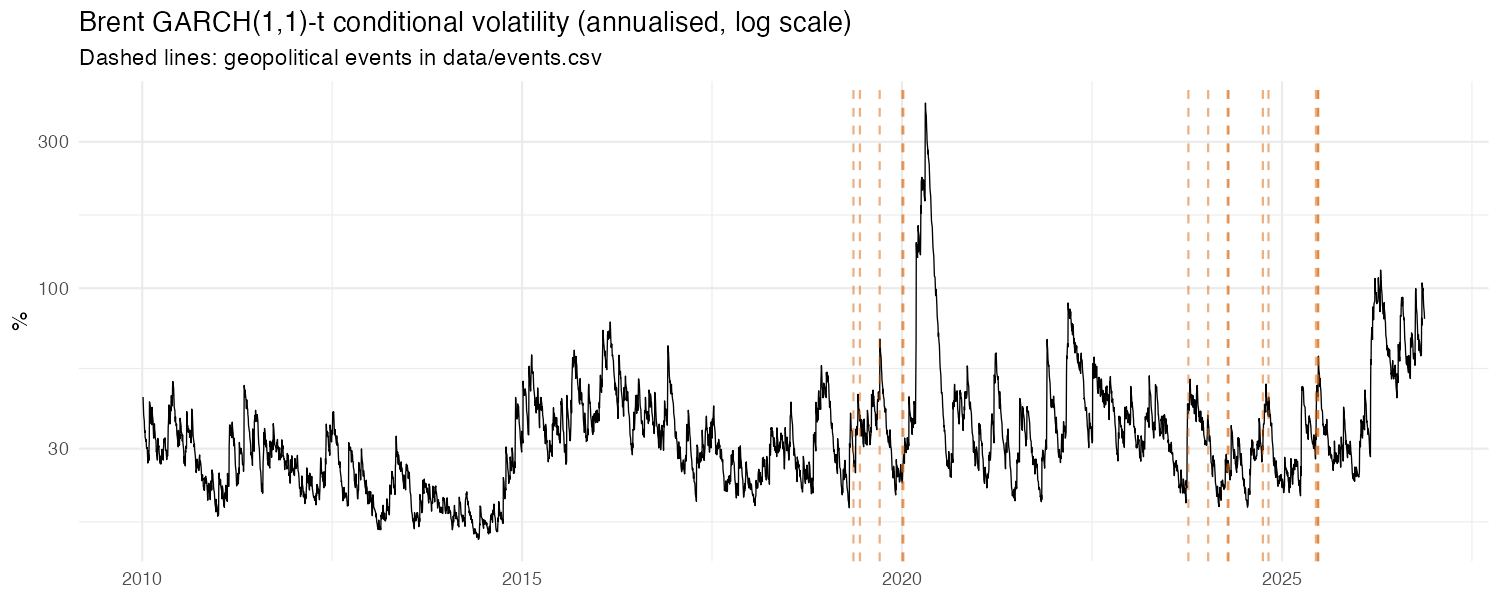
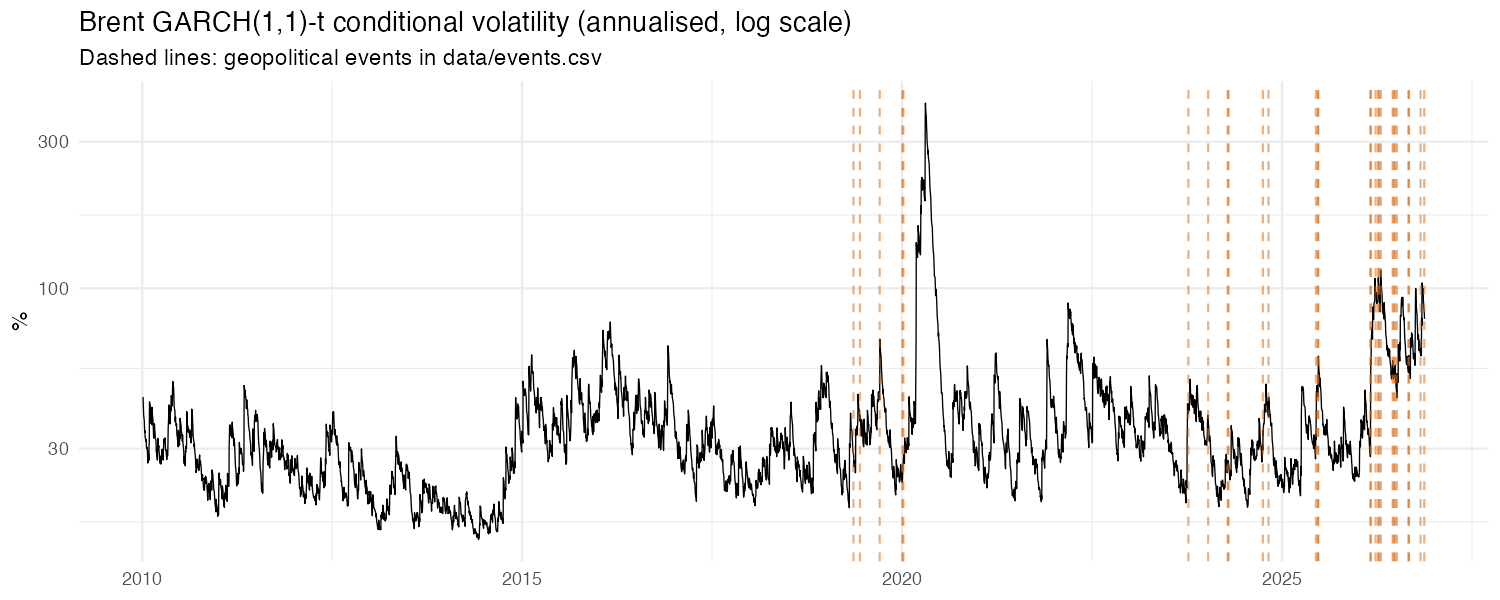
Add 2026 Iran war events; split tests by period and add within-war placebo

Changed region(s): [[0.8893, 0.15, 0.9507, 0.93]]

diff --git a/output/results.md b/output/results.md
@@ -54,18 +54,54 @@ Brent sample: 2010-01-05 to 2026-11-17 (4269 daily returns). Generated 2026-11-1
 |E12      |2025-06-13 |2025-06-13 |escalation    |FALSE             |   7.03|    3.48|     5.77|      2.15|    10.56|      1.94|      5.14|       1.58|
 |E13      |2025-06-22 |2025-06-23 |escalation    |FALSE             |  -5.74|   -2.05|   -13.00|     -3.06|   -14.43|     -1.94|    -15.07|      -2.92|
 |E14      |2025-06-24 |2025-06-24 |de-escalation |TRUE              |  -7.27|   -2.27|    -8.33|     -1.81|    -9.46|     -1.20|    -14.07|      -2.66|
+|E15      |2026-02-28 |2026-03-02 |escalation    |FALSE             |   7.97|    4.48|    15.50|      4.94|    27.98|      4.19|     15.03|       3.89|
+|E16      |2026-03-04 |2026-03-04 |escalation    |TRUE              |  -2.09|   -0.57|     6.18|      1.24|     8.84|      1.00|     13.71|       2.46|
+|E17      |2026-03-27 |2026-03-27 |escalation    |FALSE             |   6.88|    1.14|     7.22|      0.85|    19.79|      1.39|     11.04|       1.04|
+|E18      |2026-04-08 |2026-04-08 |de-escalation |FALSE             | -12.39|   -2.09|   -14.94|     -1.74|   -18.45|     -1.26|     -6.96|      -0.61|
+|E19      |2026-04-13 |2026-04-13 |escalation    |TRUE              |   3.47|    0.56|    -0.32|     -0.05|   -14.11|     -1.18|     -0.29|      -0.04|
+|E20      |2026-04-21 |2026-04-21 |de-escalation |FALSE             |   2.62|    0.37|     9.27|      0.97|    12.89|      0.82|     13.99|       1.17|
+|E21      |2026-06-17 |2026-06-17 |de-escalation |FALSE             |  -0.21|   -0.06|    -1.44|     -0.29|   -11.03|     -1.38|     -6.12|      -1.00|
+|E22      |2026-06-20 |2026-06-22 |escalation    |TRUE              |  -5.06|   -1.59|    -6.11|     -1.34|   -11.68|     -1.49|     -4.72|      -0.85|
+|E23      |2026-06-28 |2026-06-29 |de-escalation |TRUE              |   2.02|    0.57|     0.43|      0.07|    -0.86|     -0.10|     -4.55|      -0.80|
+|E24      |2026-07-07 |2026-07-07 |escalation    |FALSE             |   3.14|    1.13|     9.51|      2.40|    18.49|      2.51|     10.78|       2.22|
+|E25      |2026-09-01 |2026-09-01 |escalation    |FALSE             |   6.75|    2.02|     8.37|      1.73|    16.75|      1.97|      7.90|       1.33|
+|E26      |2026-09-03 |2026-09-03 |escalation    |TRUE              |   2.96|    0.81|     4.65|      0.91|    21.49|      2.64|      6.28|       0.99|
+|E27      |2026-10-29 |2026-10-29 |escalation    |FALSE             |  -3.34|   -0.87|     0.79|      0.15|   -19.62|     -2.05|     -2.43|      -0.35|
+|E28      |2026-11-16 |2026-11-16 |escalation    |FALSE             |  -2.41|   -0.46|    -2.37|     -0.32|       NA|        NA|     -2.63|      -0.29|
 
 ## Placebo tests (mean |SCAR| vs random non-event days)
-|window | n_events| observed_mean_abs_scar| placebo_median| placebo_p95| p_value|sample                      |
-|:------|--------:|----------------------:|--------------:|-----------:|-------:|:---------------------------|
-|[0,0]  |       14|                  1.752|          0.722|       1.058|   0.000|all events                  |
-|[0,1]  |       14|                  1.384|          0.759|       1.073|   0.002|all events                  |
-|[0,5]  |       14|                  1.039|          0.791|       1.099|   0.093|all events                  |
-|[-1,1] |       14|                  1.261|          0.778|       1.092|   0.008|all events                  |
-|[0,0]  |       11|                  1.891|          0.722|       1.096|   0.000|non-overlapping events only |
-|[0,1]  |       11|                  1.435|          0.759|       1.117|   0.003|non-overlapping events only |
-|[0,5]  |       11|                  0.994|          0.792|       1.147|   0.161|non-overlapping events only |
-|[-1,1] |       11|                  1.121|          0.774|       1.129|   0.053|non-overlapping events only |
+|window | n_events| observed_mean_abs_scar| placebo_median| placebo_p95| p_value|sample                                                 |
+|:------|--------:|----------------------:|--------------:|-----------:|-------:|:------------------------------------------------------|
+|[0,0]  |       28|                  1.473|          0.723|       0.945|   0.000|all events                                             |
+|[0,1]  |       28|                  1.300|          0.761|       0.974|   0.000|all events                                             |
+|[0,5]  |       27|                  1.353|          0.786|       0.994|   0.000|all events                                             |
+|[-1,1] |       28|                  1.239|          0.774|       0.989|   0.000|all events                                             |
+|[0,0]  |       20|                  1.672|          0.720|       0.987|   0.000|non-overlapping events only                            |
+|[0,1]  |       20|                  1.459|          0.758|       1.017|   0.000|non-overlapping events only                            |
+|[0,5]  |       19|                  1.395|          0.783|       1.042|   0.000|non-overlapping events only                            |
+|[-1,1] |       20|                  1.212|          0.772|       1.027|   0.005|non-overlapping events only                            |
+|[0,0]  |       14|                  1.752|          0.717|       1.045|   0.000|2019-2025 events                                       |
+|[0,1]  |       14|                  1.384|          0.751|       1.069|   0.003|2019-2025 events                                       |
+|[0,5]  |       14|                  1.039|          0.780|       1.082|   0.075|2019-2025 events                                       |
+|[-1,1] |       14|                  1.261|          0.768|       1.082|   0.007|2019-2025 events                                       |
+|[0,0]  |       14|                  1.195|          0.717|       1.045|   0.013|2026 war events                                        |
+|[0,1]  |       14|                  1.216|          0.751|       1.069|   0.012|2026 war events                                        |
+|[0,5]  |       13|                  1.691|          0.780|       1.096|   0.000|2026 war events                                        |
+|[-1,1] |       14|                  1.218|          0.768|       1.082|   0.012|2026 war events                                        |
+|[0,0]  |       14|                  1.195|          0.697|       1.054|   0.008|2026 war events vs other war days                      |
+|[0,1]  |       14|                  1.216|          0.711|       0.987|   0.001|2026 war events vs other war days                      |
+|[0,5]  |       13|                  1.691|          0.605|       0.823|   0.000|2026 war events vs other war days                      |
+|[-1,1] |       14|                  1.218|          0.781|       1.061|   0.006|2026 war events vs other war days                      |
+|[0,0]  |       14|                  1.195|          0.836|       1.192|   0.049|2026 war events vs other war days (+/-3 day exclusion) |
+|[0,1]  |       14|                  1.216|          0.847|       1.150|   0.022|2026 war events vs other war days (+/-3 day exclusion) |
+|[0,5]  |       13|                  1.691|          0.736|       1.035|   0.000|2026 war events vs other war days (+/-3 day exclusion) |
+|[-1,1] |       14|                  1.218|          0.878|       1.168|   0.028|2026 war events vs other war days (+/-3 day exclusion) |
+
+## Before vs during the 2026 Iran war
+|period                  | days| brent_ann_vol_pct| mean_abs_daily_move_pct| share_days_move_over_5pct| mean_garch_vol_pct|
+|:-----------------------|----:|-----------------:|-----------------------:|-------------------------:|------------------:|
+|Jan 2019 to Feb 2026    | 1816|            53.566|                   1.890|                     0.053|             40.634|
+|Since 28 Feb 2026 (war) |  182|            77.519|                   3.635|                     0.253|             72.022|
 
 ## Cross-asset moves on day 0
 |day0       |event_id |direction     | brent_pct| spx_pct| usd_pct| vix_pts| ust10_bp| ovx_pts|
@@ -84,6 +120,20 @@ Brent sample: 2010-01-05 to 2026-11-17 (4269 daily returns). Generated 2026-11-1
 |2025-06-13 |E12      |escalation    |      7.03|   -1.14|    0.13|    2.80|        5|   11.86|
 |2025-06-23 |E13      |escalation    |     -5.74|    0.96|    0.11|   -0.79|       -4|  -11.02|
 |2025-06-24 |E14      |de-escalation |     -7.27|    1.11|   -0.67|   -2.35|       -4|   -4.85|
+|2026-03-02 |E15      |escalation    |      7.97|    0.04|    0.71|    1.58|        8|    4.22|
+|2026-03-04 |E16      |escalation    |     -2.09|    0.77|   -0.30|   -2.42|        3|    1.21|
+|2026-03-27 |E17      |escalation    |      6.88|   -1.69|    0.41|    3.61|        2|    4.27|
+|2026-04-08 |E18      |de-escalation |    -12.39|    2.48|   -1.05|   -4.74|       -4|  -14.88|
+|2026-04-13 |E19      |escalation    |      3.47|    1.01|    0.11|   -0.11|       -1|    2.54|
+|2026-04-21 |E20      |de-escalation |      2.62|   -0.64|    0.17|    0.63|        4|   11.78|
+|2026-06-17 |E21      |de-escalation |     -0.21|   -1.22|    0.11|    2.03|        6|    0.55|
+|2026-06-22 |E22      |escalation    |     -5.06|   -0.37|    0.12|    0.50|        5|   -0.84|
+|2026-06-29 |E23      |de-escalation |      2.02|    1.17|    0.05|   -0.76|        0|   -1.39|
+|2026-07-07 |E24      |escalation    |      3.14|   -0.45|   -0.02|    0.56|        7|    7.26|
+|2026-09-01 |E25      |escalation    |      6.75|   -0.71|    0.07|    1.42|        4|    4.22|
+|2026-09-03 |E26      |escalation    |      2.96|    1.05|   -0.34|   -0.88|       -2|   -1.36|
+|2026-10-29 |E27      |escalation    |     -3.34|   -0.31|   -0.09|    0.29|       -7|   -1.43|
+|2026-11-16 |E28      |escalation    |     -2.41|   -1.94|      NA|    3.61|       -3|   -0.69|
 
 ## Implied vs realised (WTI / OVX)
 | n_days| mean_ovx| mean_rv21| mean_gap| median_gap| share_implied_above_realised|
@@ -106,12 +156,30 @@ Brent sample: 2010-01-05 to 2026-11-17 (4269 daily returns). Generated 2026-11-1
 |E12      |2025-06-13 |       45.4|     57.2|     53.6|      34.4|            44.5|     12.7|
 |E13      |2025-06-23 |       64.7|     53.6|     38.9|      32.3|            31.0|     22.7|
 |E14      |2025-06-24 |       53.6|     48.8|     38.0|      32.4|            24.3|     24.5|
+|E15      |2026-03-02 |       64.7|     68.9|    100.5|      95.8|            93.8|    -24.9|
+|E16      |2026-03-04 |       74.0|     75.2|    120.9|      91.8|            99.4|    -24.2|
+|E17      |2026-03-27 |       92.4|     96.6|     96.1|      73.1|            94.4|      2.2|
+|E18      |2026-04-08 |       98.8|     83.9|     72.2|      72.3|            72.8|     11.1|
+|E19      |2026-04-13 |       78.0|     80.6|     73.8|      75.7|            73.1|      7.4|
+|E20      |2026-04-21 |       73.8|     85.6|     70.5|      72.9|            61.6|     24.0|
+|E21      |2026-06-17 |       53.1|     53.6|     47.0|      60.0|            50.0|      3.6|
+|E22      |2026-06-22 |       51.5|     50.7|     45.1|      63.8|            50.5|      0.2|
+|E23      |2026-06-29 |       46.5|     45.1|     47.6|      57.1|            60.8|    -15.7|
+|E24      |2026-07-07 |       40.3|     47.6|     59.9|      53.5|            65.5|    -17.9|
+|E25      |2026-09-01 |       44.9|     49.1|     49.9|      52.2|            79.2|    -30.1|
+|E26      |2026-09-03 |       47.8|     46.4|     58.9|      51.0|            79.7|    -33.3|
+|E27      |2026-10-29 |       58.6|     57.2|     60.3|        NA|              NA|       NA|
+|E28      |2026-11-16 |       50.3|     49.6|       NA|        NA|              NA|       NA|
 
 Placebo for the day-0 gap:
-|placebo                                | n_events| observed_median_gap| placebo_median| placebo_p95| p_value|
-|:--------------------------------------|--------:|-------------------:|--------------:|-----------:|-------:|
-|any non-event day                      |       14|               13.47|          4.726|       8.763|       0|
-|matched: within 250 days of each event |       14|               13.47|          5.214|       9.141|       0|
+|events    |placebo                 | n_events| observed_median_gap| placebo_median| placebo_p05| placebo_p95| p_value_two_sided|
+|:---------|:-----------------------|--------:|-------------------:|--------------:|-----------:|-----------:|-----------------:|
+|all       |any non-event day       |       26|               3.515|          4.793|       1.828|       7.684|             0.424|
+|all       |matched within 250 days |       26|               3.515|          7.015|       3.792|       9.949|             0.075|
+|2019-2025 |any non-event day       |       14|              13.470|          4.825|       0.458|       8.747|             0.001|
+|2019-2025 |matched within 250 days |       14|              13.470|          5.250|       0.432|       9.314|             0.001|
+|2026 war  |any non-event day       |       12|              -7.748|          4.841|       0.066|       9.065|             0.001|
+|2026 war  |matched within 250 days |       12|              -7.748|          9.006|       4.715|      12.781|             0.000|
 
 ## Mean reversion of log OVX (AR(1), Newey-West SE)
 |    phi|  se_nw| phi_lo| phi_hi| half_life| half_life_lo| half_life_hi|    n|

diff --git a/README.md b/README.md
@@ -2,7 +2,7 @@
 
 I work on Gulf political economy, and I wanted to check something I read in market commentary all the time: that oil "prices in" geopolitical risk. This repo looks at two questions:
 
-1. How do Brent returns behave around major Middle East events since 2019?
+1. How do Brent returns behave around major Middle East events since 2019, including the 2026 Iran war?
 2. Does oil implied volatility (OVX) overprice or underprice the volatility that follows?
 
 Everything runs from public FRED data in R.
@@ -18,7 +18,7 @@ Rscript tests/testthat.R      # unit tests
 - Brent spot `DCOILBRENTEU` and WTI spot `DCOILWTICO` (EIA via FRED)
 - OVX `OVXCLS` (CBOE crude oil volatility index)
 - S&P 500 `SP500`, VIX `VIXCLS`, 10y Treasury `DGS10`, broad dollar index `DTWEXBGS`
-- `data/events.csv`: 14 events I coded by hand, with a source for each
+- `data/events.csv`: 28 events I coded by hand, with a source for each. 14 are from 2019-2025, and 14 from the war that began on 28 February 2026 (start, Hormuz closures, ceasefires, the US blockade, the June memorandum and its collapse, and the autumn tanker and mine attacks)
 
 Raw downloads go into `data/raw/` and are not modified. `MANIFEST.csv` logs when each file was downloaded, its row count and md5 hash. Sample: Jan 2010 to Nov 2026.
 
@@ -30,7 +30,7 @@ Raw downloads go into `data/raw/` and are not modified. `MANIFEST.csv` logs when
 
 **VaR backtest.** Parameters are estimated on 2010-2019 and then frozen. From 2020 on, each day's VaR uses only information up to the day before. Coverage is checked with the Kupiec test.
 
-**Event study.** Returns are divided by the GARCH conditional volatility before anything else. Otherwise an event that happens in an already volatile week looks bigger than it is. Instead of trusting the N(0,1) reference, I compare the events with 10,000 random sets of ordinary days (placebo test). I also rerun it without events that overlap each other (e.g. 22 and 24 June 2025), using four different windows.
+**Event study.** Returns are divided by the GARCH conditional volatility before anything else. Otherwise an event that happens in an already volatile week looks bigger than it is. Instead of trusting the N(0,1) reference, I compare the events with 10,000 random sets of ordinary days (placebo test). I also rerun it without events that overlap each other (e.g. 22 and 24 June 2025), using four different windows. I split the events into 2019-2025 and the 2026 war. Within the war, I also compare events with other war days only, since the whole period is turbulent.
 
 **Implied vs realised.** OVX on day t against WTI realised vol over the next 21 trading days. The event-day gap is compared with random days, and with random days drawn from within a year of each event. That second check is needed because many of the events fall in 2024-25.
 
@@ -44,16 +44,20 @@ What the data shows directly:
 - Brent returns are very fat-tailed. Excess kurtosis is 5.0 excluding Mar-May 2020 and 89 including it. The t distribution (nu about 2.9) fits far better than the normal, which puts 99% expected shortfall at 7.4% against 12.1% in the data.
 - Volatility is persistent: alpha + beta = 0.993, a half-life of about 100 trading days.
 - Out of sample (2020 to Nov 2026), the GARCH-t 99% VaR was breached 29 times against 17.4 expected (Kupiec p = 0.011). A static normal VaR was breached 93 times. So GARCH-t is much better, but it still under-covers.
-- On event days the mean absolute standardised move is 1.75, against a median of 0.72 for random days (placebo p < 0.001). This holds for the 11 non-overlapping events. Over days 0 to 5 the difference is no longer significant (p = 0.09, or 0.16 without overlaps).
-- OVX was above subsequent realised volatility on 71% of days, with a median gap of 4.7 points. On event days the median gap was 13.5 points, which is outside the 95% range of both placebo tests.
+- Brent volatility since the war began (28 Feb 2026) has been 78% annualised, against 54% from 2019 to Feb 2026. A quarter of war days moved more than 5%, against 5% of days before.
+- 2019-2025 events: the mean absolute standardised move on day 0 is 1.75, against a median of 0.72 for random days (placebo p < 0.001). Over days 0 to 5 the difference is no longer significant (p = 0.075).
+- 2026 war events: the day-0 reaction is smaller relative to the (already high) volatility, at 1.20. But it builds over the following week: over days 0 to 5 it reaches 1.69, against 0.61 for other war days (p < 0.001). This holds with a narrower exclusion window, which gives a larger placebo pool.
+- Implied vs realised flips sign. OVX was above subsequent realised volatility on 71% of all days (median gap 4.7 points). After 2019-2025 events the median gap was +13.5 points, so options overpriced what followed. After 2026 war events it was -7.7 points, so realised volatility ran above what options priced. Both are outside the 90% range of the placebo draws, and pooling the two periods hides both effects (p = 0.42).
 
 How I read it:
-- The market seems to absorb this kind of news within a day or so. I don't see much drift afterwards.
-- The direction depends on what the event means for supply. The biggest falls were on days the market read as de-escalation or a contained response (Oct 2024, and 23-24 June 2025).
-- After shocks, options price in more volatility than actually follows. That is consistent with more demand for hedging, or a higher volatility risk premium, after salient events.
+- Before 2026, oil absorbed this kind of news within about a day, and the direction depended on what the event meant for supply. The biggest falls were on days the market read as de-escalation or a contained response (Oct 2024, 23-24 June 2025).
+- In the war the news is about actual flows, not just risk. Closures, blockades and ceasefires change how many barrels get through, and prices keep adjusting for days as that becomes clear.
+- In isolated shocks, options seem to price in more volatility than follows: a risk premium, or demand for hedges. In a sustained supply crisis that reverses, and options under-priced realised volatility, mostly after the July and September escalations.
 
 What I'm not sure about:
-- 14 events is a small sample, and the bootstrap bands are wide.
+- 14 events per period is a small sample, and the bootstrap bands are wide.
+- War events are close together (2 and 4 March, 1 and 3 September), so their windows overlap. Comparing war events with other war days leaves only 55 placebo days with a ±10-day exclusion. That's why I also report a ±3-day version.
+- Recent events have incomplete windows: E28 (16 Nov) has no [0,5] window, and E27-E28 have no 21-day realised volatility yet. They are dropped from those tests only.
 - I picked the events after the fact. That probably favours events that moved the market. A rule-based list, e.g. from a news-intensity index, would be better.
 - Weekend events are mapped to the next trading day. Brent spot is a London price, while OVX and the US series close in New York, so "day 0" is not exactly the same moment for every asset.
 - OVX is built on USO options (WTI futures), so it is not a clean measure for Brent.
@@ -61,7 +65,7 @@ What I'm not sure about:
 - 13 May 2019 was also a US-China tariff escalation day, so the cross-asset moves on E01 are not just about the Gulf.
 - The full-sample GARCH fit, used to standardise returns, includes the event days themselves.
 
-Things I'd like to add: a rule-based event list, Brent options data instead of OVX, and a Christoffersen independence test for the VaR breaches.
+Things I'd like to add: a rule-based event list, a regime-switching volatility model for the war period, Brent options data instead of OVX, and a Christoffersen independence test for the VaR breaches.
 
 ## Files
 
